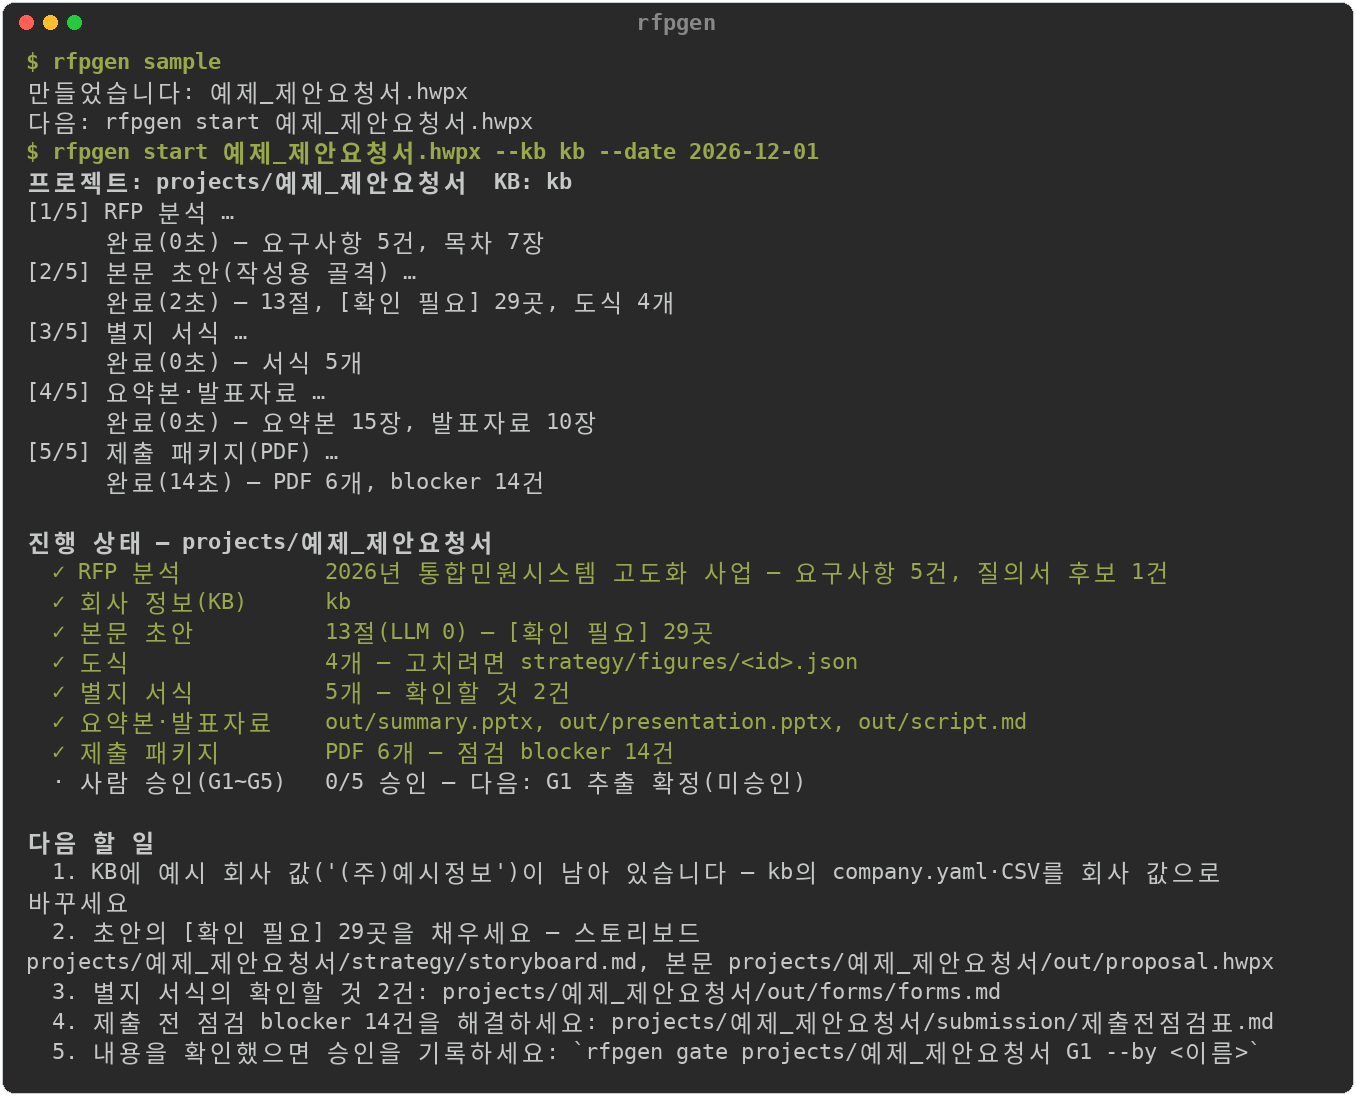
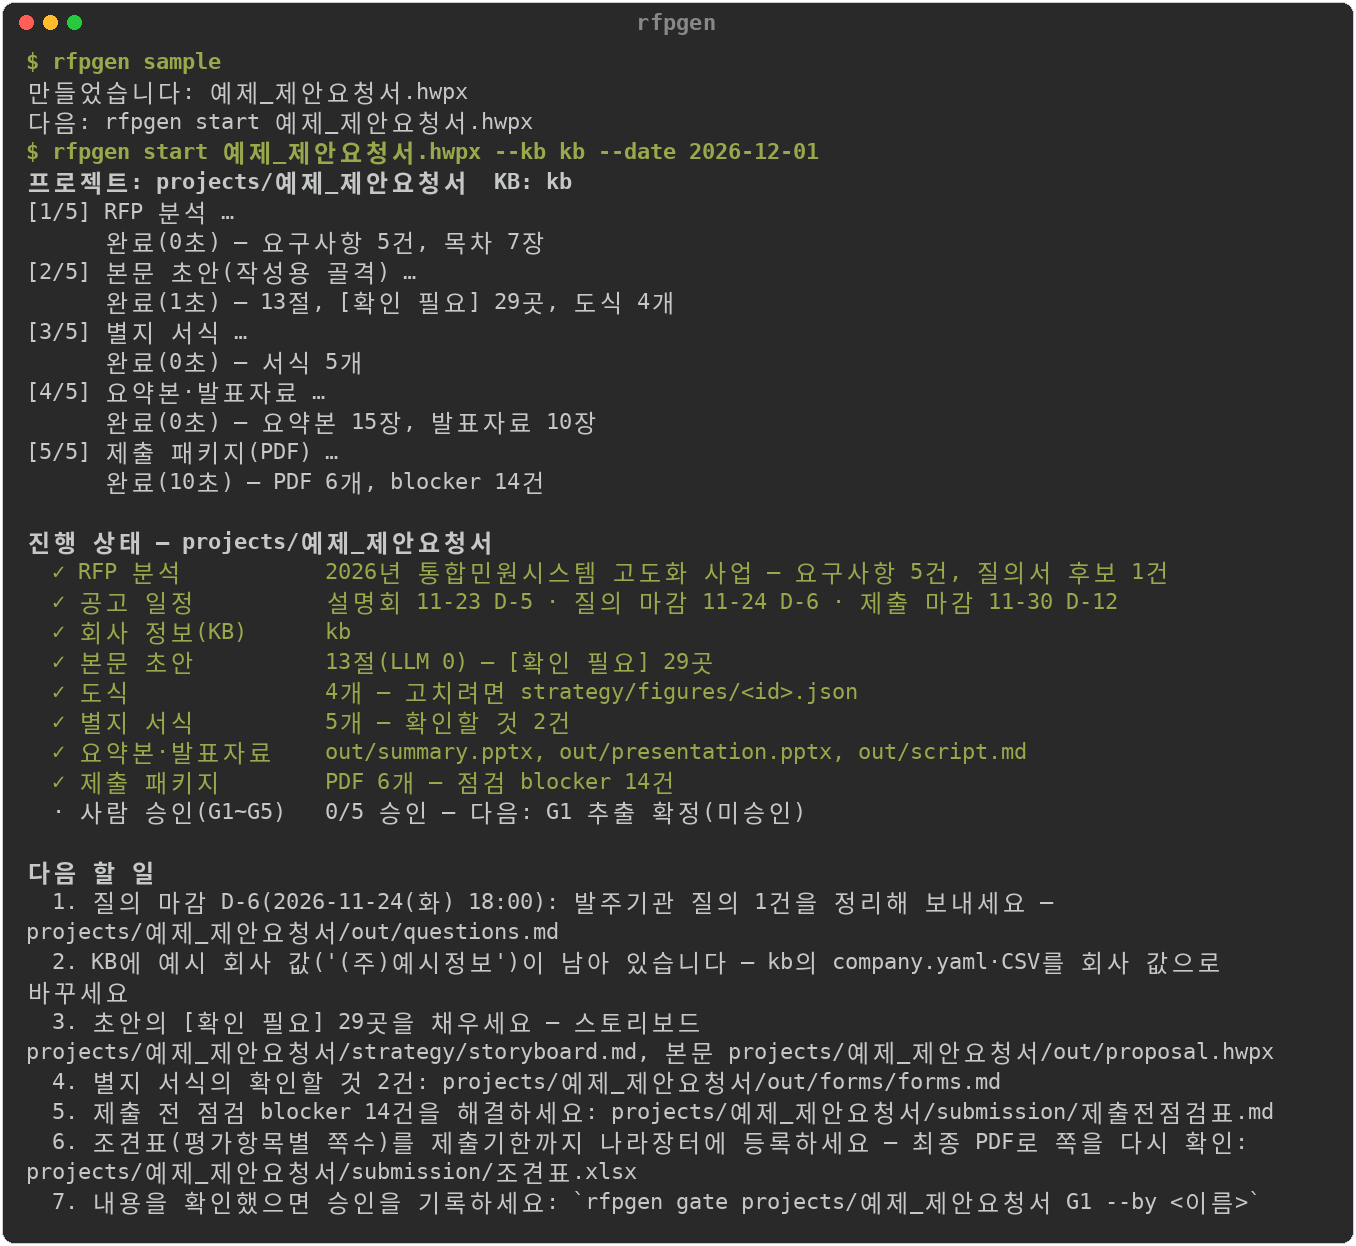
Keep the status schedule row on one line and refresh README screenshots
`rfpgen status` now lists only the next three upcoming dates as month-day
with remaining days (full dates and times stay in the to-do lines and
analysis.md), or the passed deadline once everything is over. The status
and start screenshots show the new 공고 일정 row and the 질의/조견표 to-dos.

Claude-Session: https://claude.ai/code/session_013LcdrLT2M8XLzR2Pnpr7bE

diff --git a/src/rfpgen/workflow.py b/src/rfpgen/workflow.py
@@ -102,10 +102,15 @@ def _schedule_status(rfp: dict, project: Path, today: dt.date, package_done: boo
     if not items:
         return Stage("schedule", "공고 일정", False, "찾지 못함 — 입찰공고문을 함께 넣으면 제출 마감·질의 기간을 읽습니다",
                      "rfpgen analyze <RFP 파일> <입찰공고문>"), todo
-    shown = [x for x in items if x.kind in ("질의", "설명회", "제안서 제출", "입찰 마감", "제안서 평가")]
-    parts = [f"{x.kind} {when(x.due)} {d_day(x.due, today)}" for x in (shown or items)
-             if not (dl is not None and x.kind == "입찰 마감" and dl.kind == "제안서 제출" and x.due == dl.due)]
-    return Stage("schedule", "공고 일정", True, " · ".join(parts[:4]), "out/analysis.md의 '일정'"), todo
+    short = {"질의": "질의 마감", "제안서 제출": "제출 마감", "제안서 평가": "평가", "참가 등록": "참가 등록"}
+    shown = [x for x in items if x.kind in ("질의", "설명회", "제안서 제출", "입찰 마감", "제안서 평가")
+             and not (dl is not None and x.kind == "입찰 마감" and dl.kind == "제안서 제출" and x.due == dl.due)]
+    # 한 줄에 들어가게 앞으로 올 일정 셋까지, 월-일과 남은 날만(연도·시각은 할 일과 analysis.md에)
+    ahead = [x for x in shown or items if (x.due or "")[:10] >= today.isoformat()]
+    if not ahead and dl is not None:
+        ahead = [dl]                                       # 다 지났으면 제출 마감이 지났음을 보인다
+    parts = [f"{short.get(x.kind, x.kind)} {(x.due or '')[5:10]} {d_day(x.due, today)}" for x in ahead[:3]]
+    return Stage("schedule", "공고 일정", True, " · ".join(parts) or "모두 지남", "out/analysis.md의 '일정'"), todo
 
 
 def project_status(project: Path, today: dt.date | None = None) -> tuple[list[Stage], list[str]]:

diff --git a/tests/test_schedule.py b/tests/test_schedule.py
@@ -102,11 +102,13 @@ def test_sample_schedule_flows_to_outputs(tmp_path):
 
     stages, todo = project_status(project, today=DAY)
     sched = next(s for s in stages if s.key == "schedule")
-    assert sched.done and "D-12" in sched.detail
+    assert sched.done and sched.detail == "설명회 11-23 D-5 · 질의 마감 11-24 D-6 · 제출 마감 11-30 D-12"
     assert any(t.startswith("질의 마감 D-6") and "questions.md" in t for t in todo)
     assert "rfpgen kb init" in todo[0]                                     # 급하지 않으면 원래 첫 할 일
     _, late = project_status(project, today=dt.date(2026, 11, 28))
     assert late[0].startswith("제출 마감 D-2") and not any(t.startswith("질의 마감") for t in late)
+    after, _ = project_status(project, today=dt.date(2026, 12, 10))
+    assert next(s for s in after if s.key == "schedule").detail == "제출 마감 11-30 10일 지남"
 
 
 def test_checklist_shows_deadline():

diff --git a/README.md b/README.md
@@ -179,7 +179,7 @@ uv run rfpgen status projects/제안요청서
 
 ![rfpgen status 실행 화면](docs/images/terminal-status.png)
 
-<sub>예제에서 두 절을 Claude로 다시 쓴 뒤의 상태입니다. LLM도 근거(KB 값)가 없으면 수치를 지어내지 않고 `[확인 필요]`로 남기므로, 채울 자리가 늘어날 수 있습니다.</sub>
+<sub>예제에서 두 절을 Claude로 다시 쓴 뒤의 상태입니다. LLM도 근거(KB 값)가 없으면 수치를 지어내지 않고 `[확인 필요]`로 남기므로, 채울 자리가 늘어날 수 있습니다. 예제의 공고 일정은 `rfpgen sample`을 실행한 날을 기준으로 잡힙니다.</sub>
 
 주로 이 순서로 손봅니다.
 
